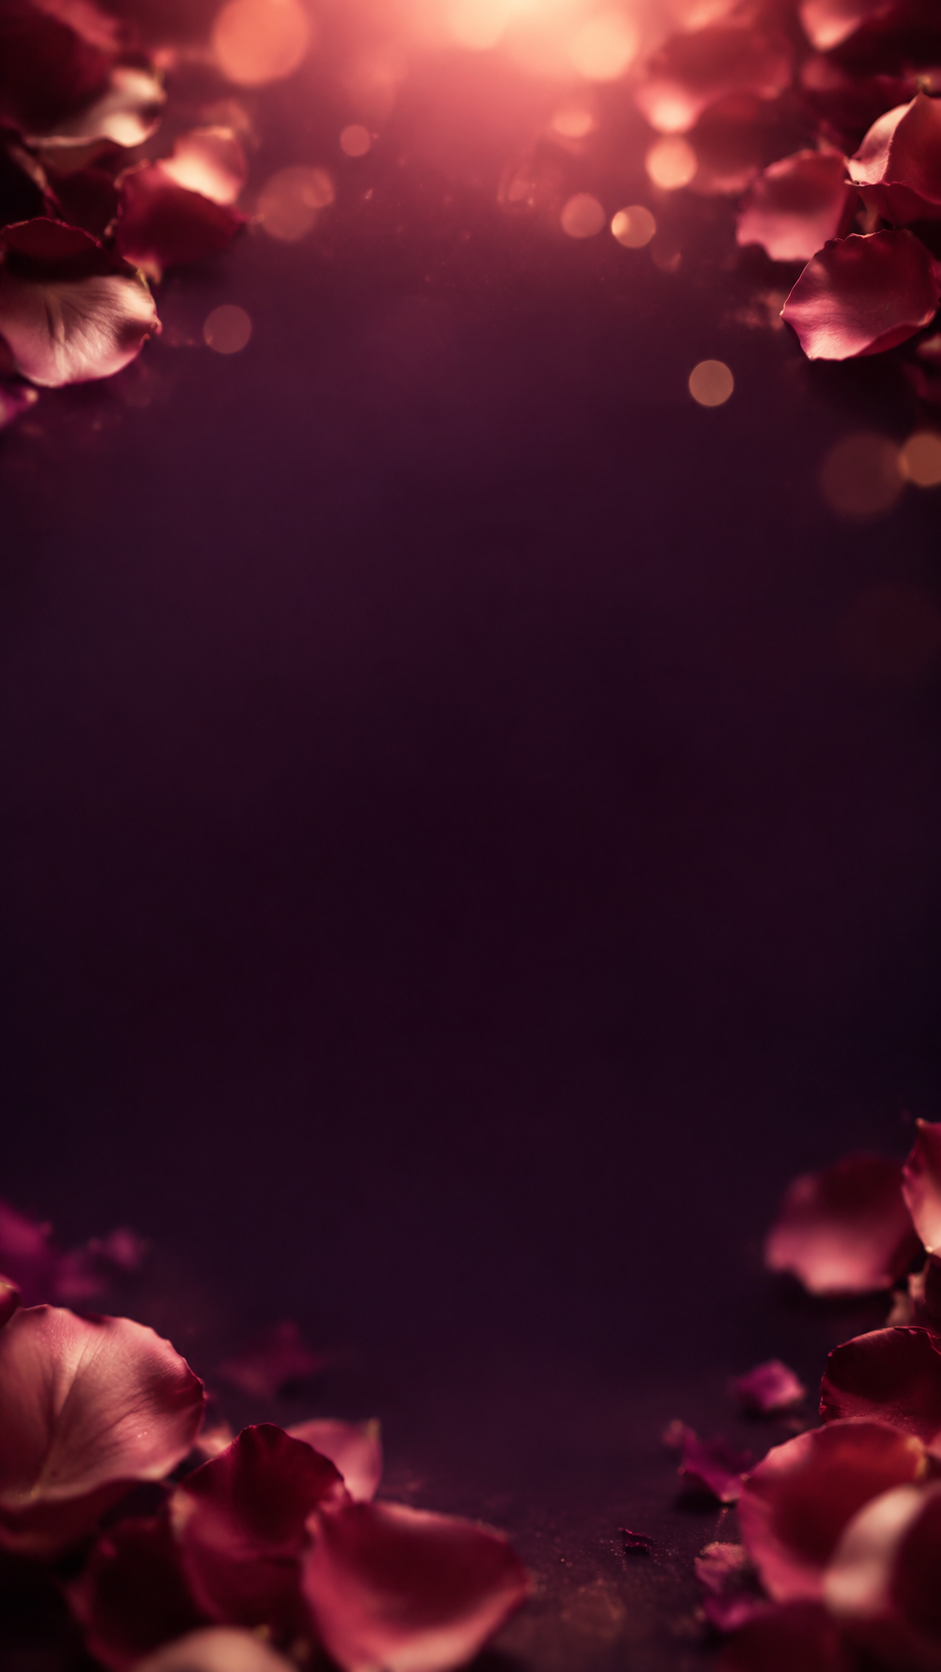
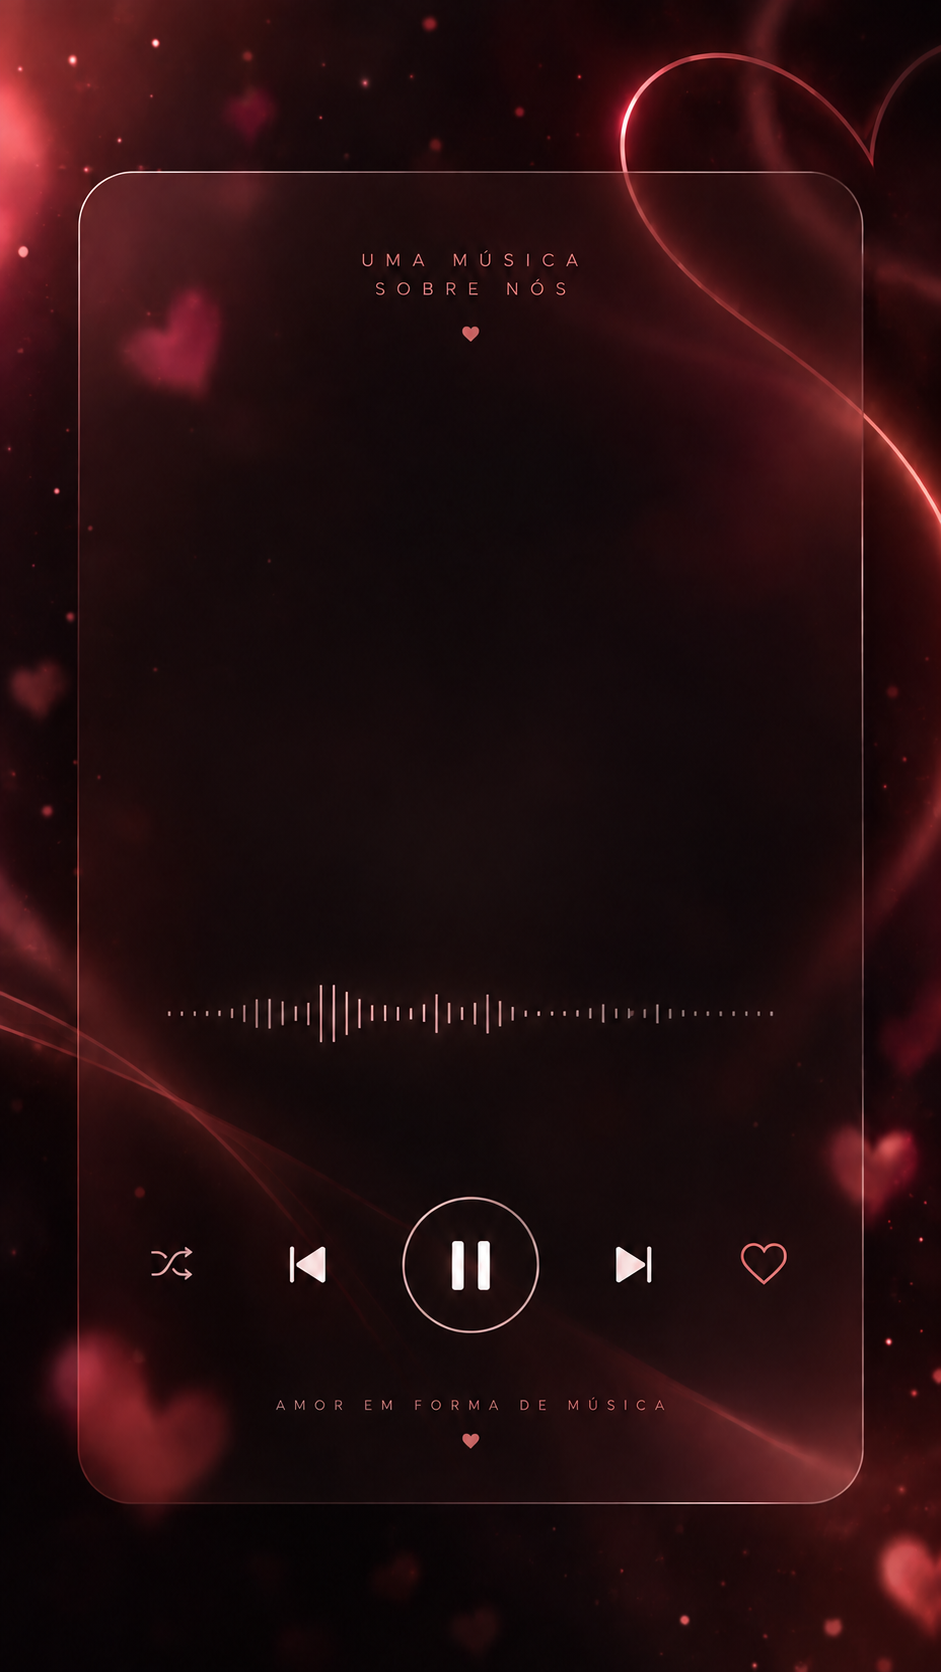
feat: apply branded lyric video background layout

diff --git a/lib/lyric-video/build-shotstack-edit.js b/lib/lyric-video/build-shotstack-edit.js
@@ -4,9 +4,22 @@ import { LYRIC_VIDEO_THEMES, lyricThemeAsset, resolveLyricTheme } from './themes
 const safeLength = (start, end) => Number(Math.max(0.6, end - start).toFixed(2));
 
 function fontSize(text) {
-  if (text.length > 82) return 50;
-  if (text.length > 48) return 58;
-  return 66;
+  if (text.length > 82) return 46;
+  if (text.length > 48) return 56;
+  return 68;
+}
+
+const escapeHtml = value => String(value || '').replace(/&/g, '&amp;').replace(/</g, '&lt;').replace(/>/g, '&gt;').replace(/"/g, '&quot;').replace(/'/g, '&#39;');
+
+function lyricMarkup(text) {
+  const words = String(text || '').trim().split(/\s+/).filter(Boolean);
+  if (words.length < 4) return `<div class="lyric lyric-single">${escapeHtml(text)}</div>`;
+  const firstEnd = Math.max(1, Math.round(words.length * 0.28));
+  const lastStart = Math.max(firstEnd + 1, Math.round(words.length * 0.72));
+  const first = words.slice(0, firstEnd).join(' ');
+  const focus = words.slice(firstEnd, lastStart).join(' ');
+  const last = words.slice(lastStart).join(' ');
+  return `<div class="lyric"><span>${escapeHtml(first)}</span><strong>${escapeHtml(focus)}</strong><span>${escapeHtml(last)}</span></div>`;
 }
 
 export function buildShotstackEdit({ audioUrl, lyrics, lyricsTimestamps, introText, theme }) {
@@ -19,20 +32,16 @@ export function buildShotstackEdit({ audioUrl, lyrics, lyricsTimestamps, introTe
     {
       clips: timing.blocks.map(block => ({
         asset: {
-          type: 'rich-text',
-          text: block.text,
-          font: { family: 'Montserrat', size: fontSize(block.text), weight: 800, color: '#FFFFFF' },
-          style: { lineHeight: 1.18, textTransform: 'uppercase' },
-          stroke: { width: 3, color: '#1A1016', opacity: 0.9 },
-          shadow: { offsetX: 0, offsetY: 5, blur: 14, color: '#000000', opacity: 0.72 },
-          background: { color: '#140C12', opacity: 0.58, borderRadius: 28 },
-          padding: 28,
-          align: { horizontal: 'center', vertical: 'middle' },
+          type: 'html',
+          html: lyricMarkup(block.text),
+          css: `.lyric{height:100%;display:flex;flex-direction:column;align-items:center;justify-content:center;text-align:center;font-family:Arial,sans-serif;text-transform:none;line-height:1.16;letter-spacing:-1px;color:#d9a8ae;text-shadow:0 3px 15px rgba(0,0,0,.72)}.lyric span{font-size:${Math.round(fontSize(block.text) * .78)}px;font-weight:400}.lyric strong{font-size:${fontSize(block.text)}px;font-weight:800;color:#fff5f5;margin:11px 0;text-shadow:0 2px 22px rgba(255,174,187,.38)}.lyric-single{font-size:${fontSize(block.text)}px;font-weight:700;color:#fff5f5}.lyric>*{display:block}`,
+          width: 940,
+          height: 360,
         },
         start: block.start,
         length: safeLength(block.start, block.end),
         width: 940,
-        height: 330,
+        height: 360,
         position: 'center',
         transition: { in: 'fade', out: 'fade' },
       })),

diff --git a/lib/lyric-video/captions.js b/lib/lyric-video/captions.js
@@ -7,14 +7,14 @@ export function normalizeCaptionBlocks(value) {
   return value.map(item => ({
     start: Number(item?.start),
     end: Number(item?.end),
-    text: clean(item?.text).toUpperCase(),
+    text: clean(item?.text),
   })).filter(item => item.text && Number.isFinite(item.start) && Number.isFinite(item.end) && item.start >= 0 && item.end > item.start && item.end <= 60);
 }
 
 export function groupLyricsIntoCaptionBlocks(lyrics) {
   const words = clean(lyrics).split(' ').filter(Boolean);
   const groups = [];
-  for (let index = 0; index < words.length; index += 6) groups.push(words.slice(index, index + 6).join(' ').toUpperCase());
+  for (let index = 0; index < words.length; index += 6) groups.push(words.slice(index, index + 6).join(' '));
   if (!groups.length) return [];
   const start = 5;
   const end = 58;
